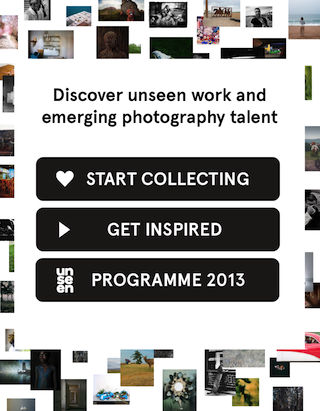
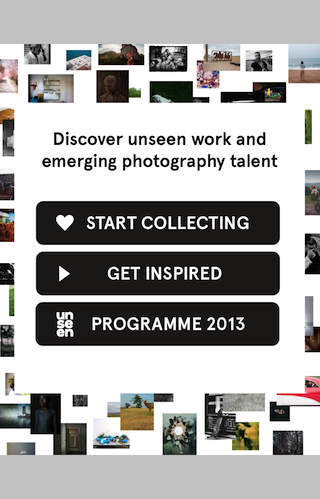
Visual tweaks for iPhone 5

diff --git a/Unseen/CollectViewController.m b/Unseen/CollectViewController.m
@@ -31,7 +31,18 @@
         UITabBarItem *tabBarItem = [tabBar.items objectAtIndex:i];
         [tabBarItem setTitleTextAttributes:[NSDictionary dictionaryWithObjectsAndKeys: [UIFont fontWithName:@"Apercu" size:10.0], UITextAttributeFont, nil]
                                   forState:UIControlStateNormal];
-    }  
+    }
+    
+    if (IS_IPHONE_5) {
+        for(UIView *subview in self.view.subviews){
+            if([subview isKindOfClass:[UIButton class]]){
+                CGRect frame = subview.frame;
+                frame.origin.y += 44;
+                subview.frame = frame;
+            }
+        }
+    }
+
     [self.navigationController setNavigationBarHidden:YES];
 }
 

diff --git a/Unseen/PhotosViewController.m b/Unseen/PhotosViewController.m
@@ -57,6 +57,16 @@
     
     [self loadObjectsFromDataStore];
     pageNumberLabel.font = [UIFont fontWithName:@"Apercu" size:12.0];
+    
+    if (IS_IPHONE_5) {
+        for(UIView *subview in self.view.subviews){
+            CGRect frame = subview.frame;            
+            frame.origin.y = (455.0/2)-(1.1217 * ((367.0/2)-(frame.origin.y + frame.size.height/2)) - 8.47) - frame.size.height/2;
+            NSLog(@"After: %f", frame.origin.y);
+            subview.frame = frame;
+        }
+    }
+    
     [self layoutPhotos];
 }
 
